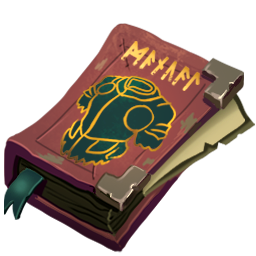
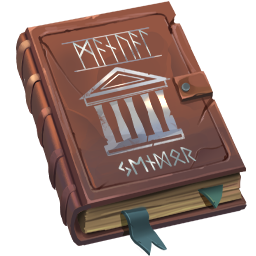
Added some graphics. Added missing frameworks back to GnollHackM.

diff --git a/win/win32/xpl/GnollHackX/GnollHackX/Pages/MainScreen/LibraryPage.xaml.cs b/win/win32/xpl/GnollHackX/GnollHackX/Pages/MainScreen/LibraryPage.xaml.cs
@@ -98,9 +98,9 @@ namespace GnollHackX.Pages.MainScreen
                 {
                     RowImageButton rib = new RowImageButton();
                     if(sm.Id >= firstCatalogue && sm.Id < firstCatalogue + numCatalogues)
-                        rib.ImgSourcePath = "resource://" + GHApp.AppResourceName + ".Assets.UI.manual.png";
-                    else
                         rib.ImgSourcePath = "resource://" + GHApp.AppResourceName + ".Assets.UI.catalogue.png";
+                    else
+                        rib.ImgSourcePath = "resource://" + GHApp.AppResourceName + ".Assets.UI.manual.png";
                     rib.LblText = sm.Name;
                     rib.LblTextColor = GHApp.DarkMode ? GHColors.White : GHColors.Black;
                     rib.LblFontSize = 17;

diff --git a/win/win32/xpl/GnollHackX/GnollHackX/Pages/MainScreen/VaultPage.xaml.cs b/win/win32/xpl/GnollHackX/GnollHackX/Pages/MainScreen/VaultPage.xaml.cs
@@ -56,7 +56,7 @@ namespace GnollHackX.Pages.MainScreen
             VaultLayout.Children.Add(rib);
 
             rib = new LabeledImageButton();
-            rib.ImgSourcePath = "resource://" + GHApp.AppResourceName + ".Assets.UI.library.png";
+            rib.ImgSourcePath = "resource://" + GHApp.AppResourceName + ".Assets.UI.manual.png";
             rib.LblText = "Library";
             rib.LblFontSize = 20;
             rib.LblFontColor = GHApp.DarkMode ? GHColors.White : GHColors.Black;
